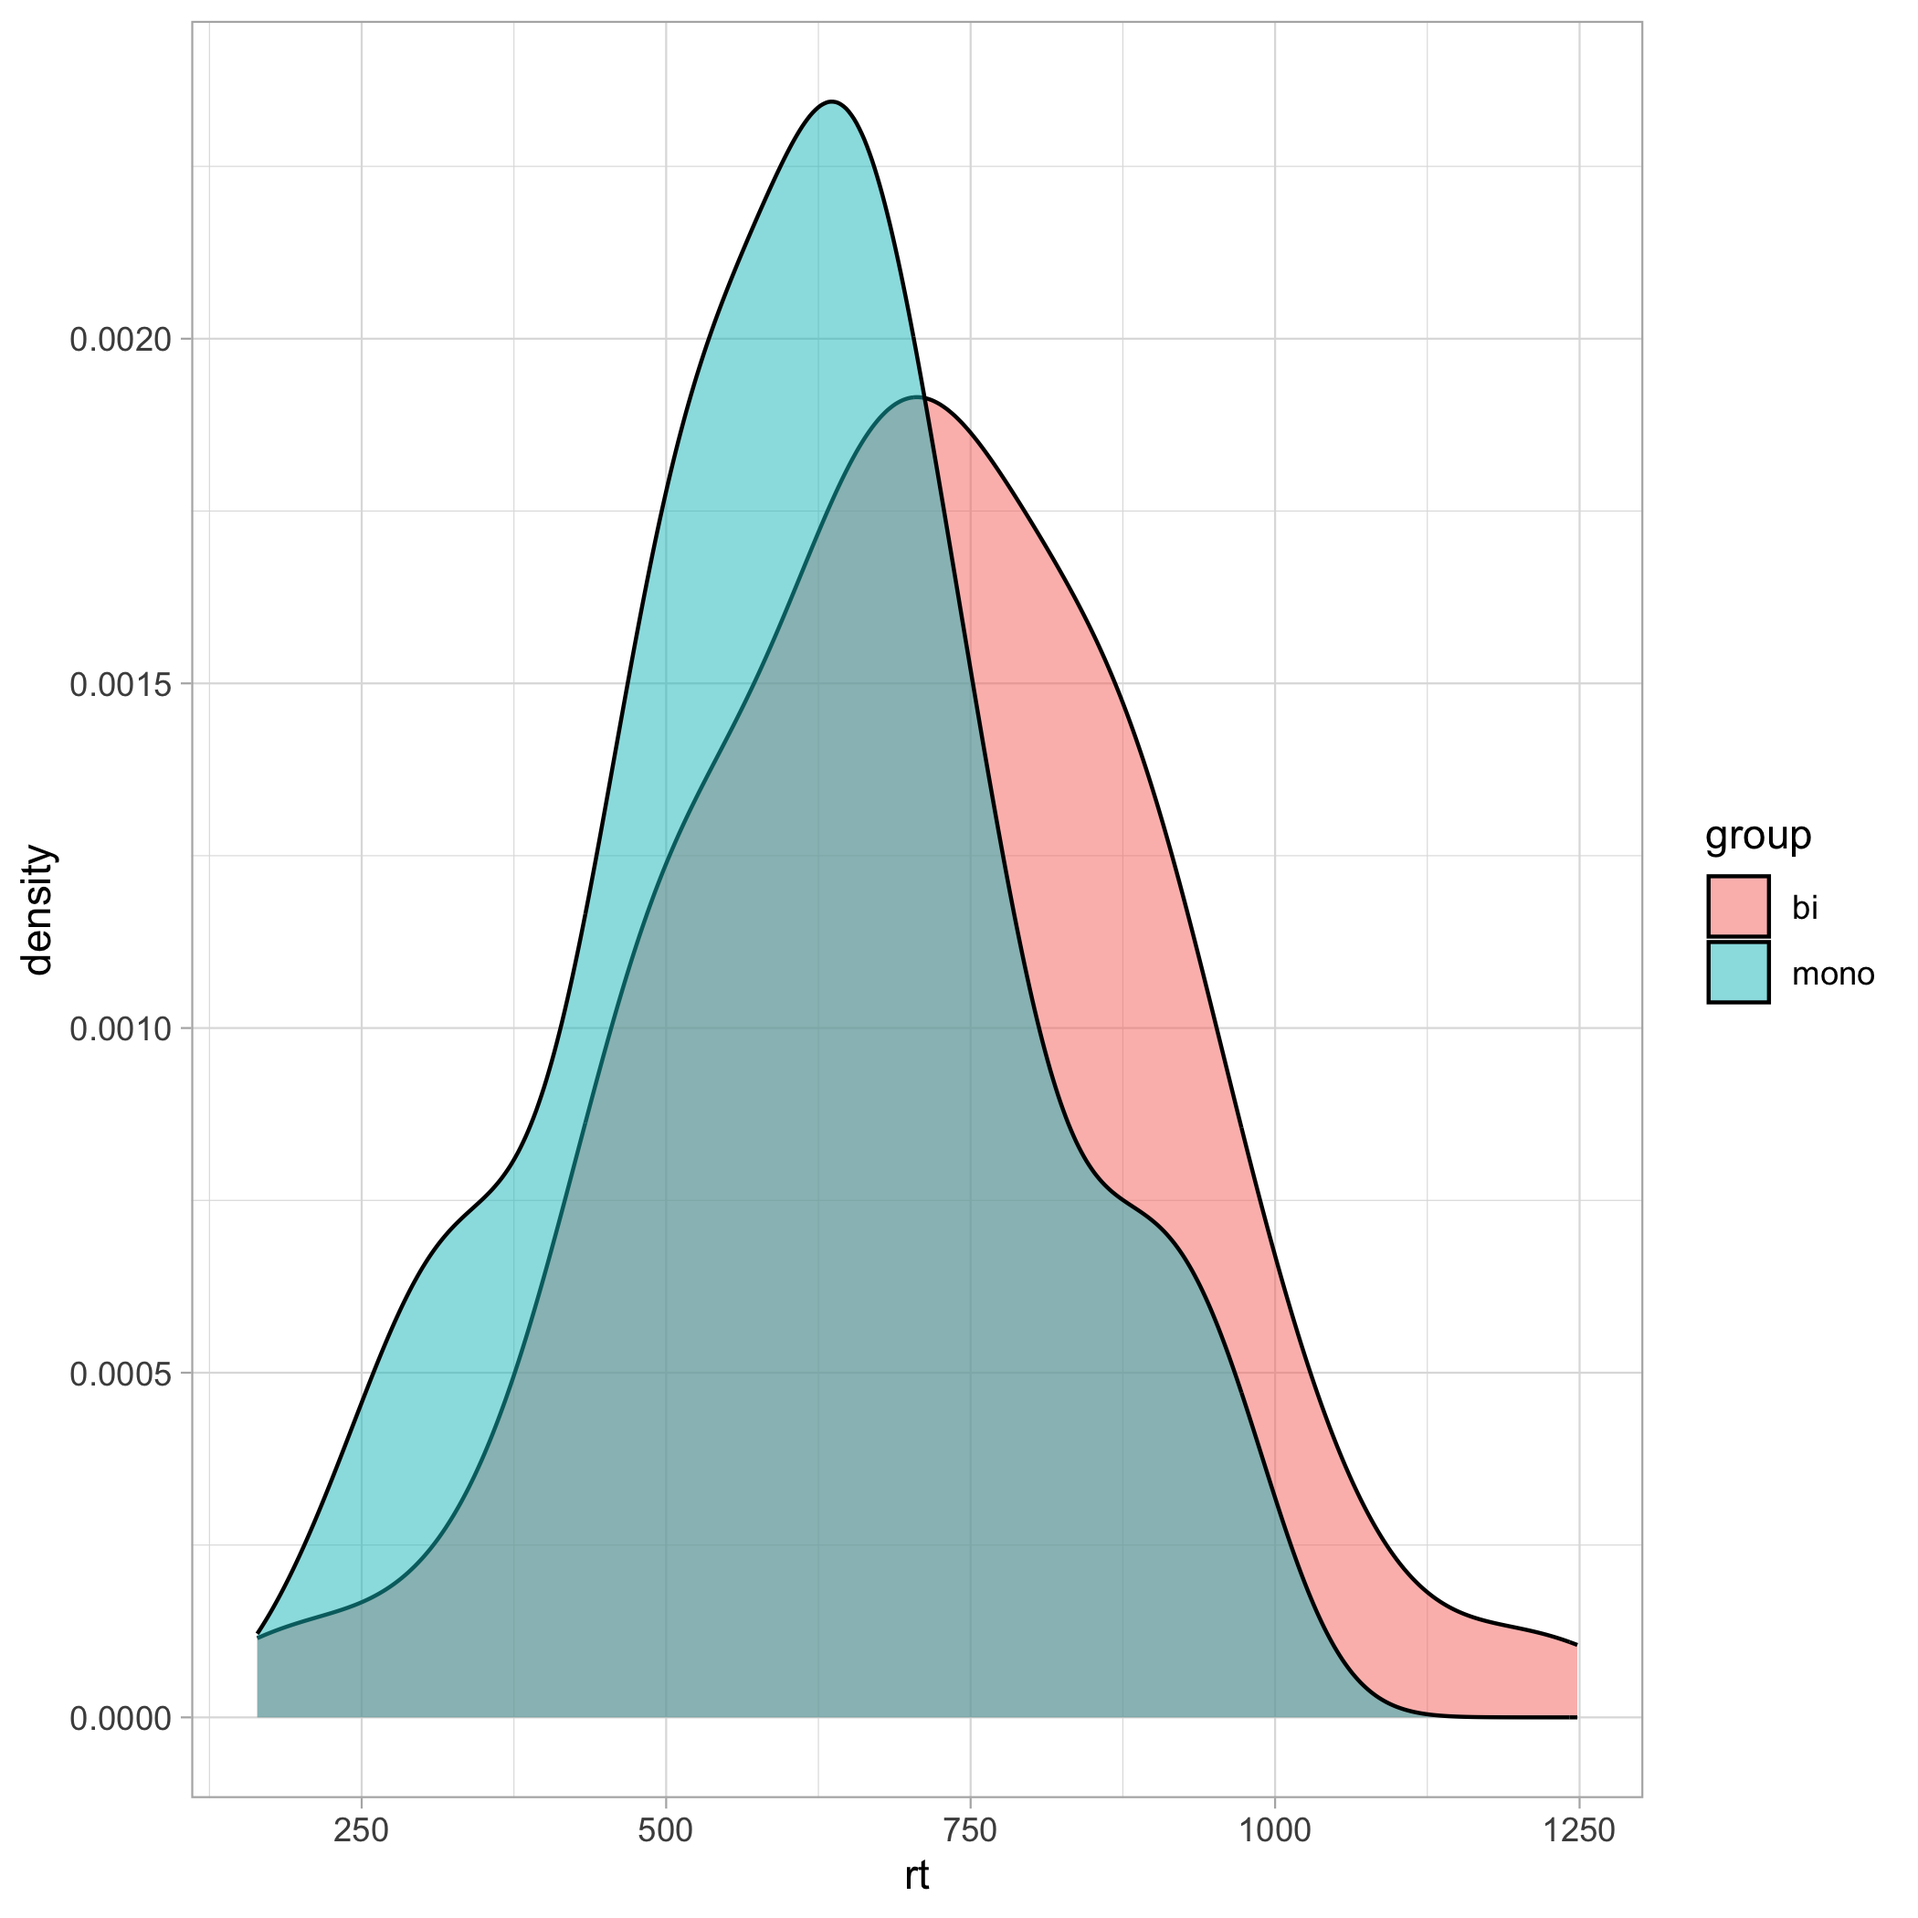
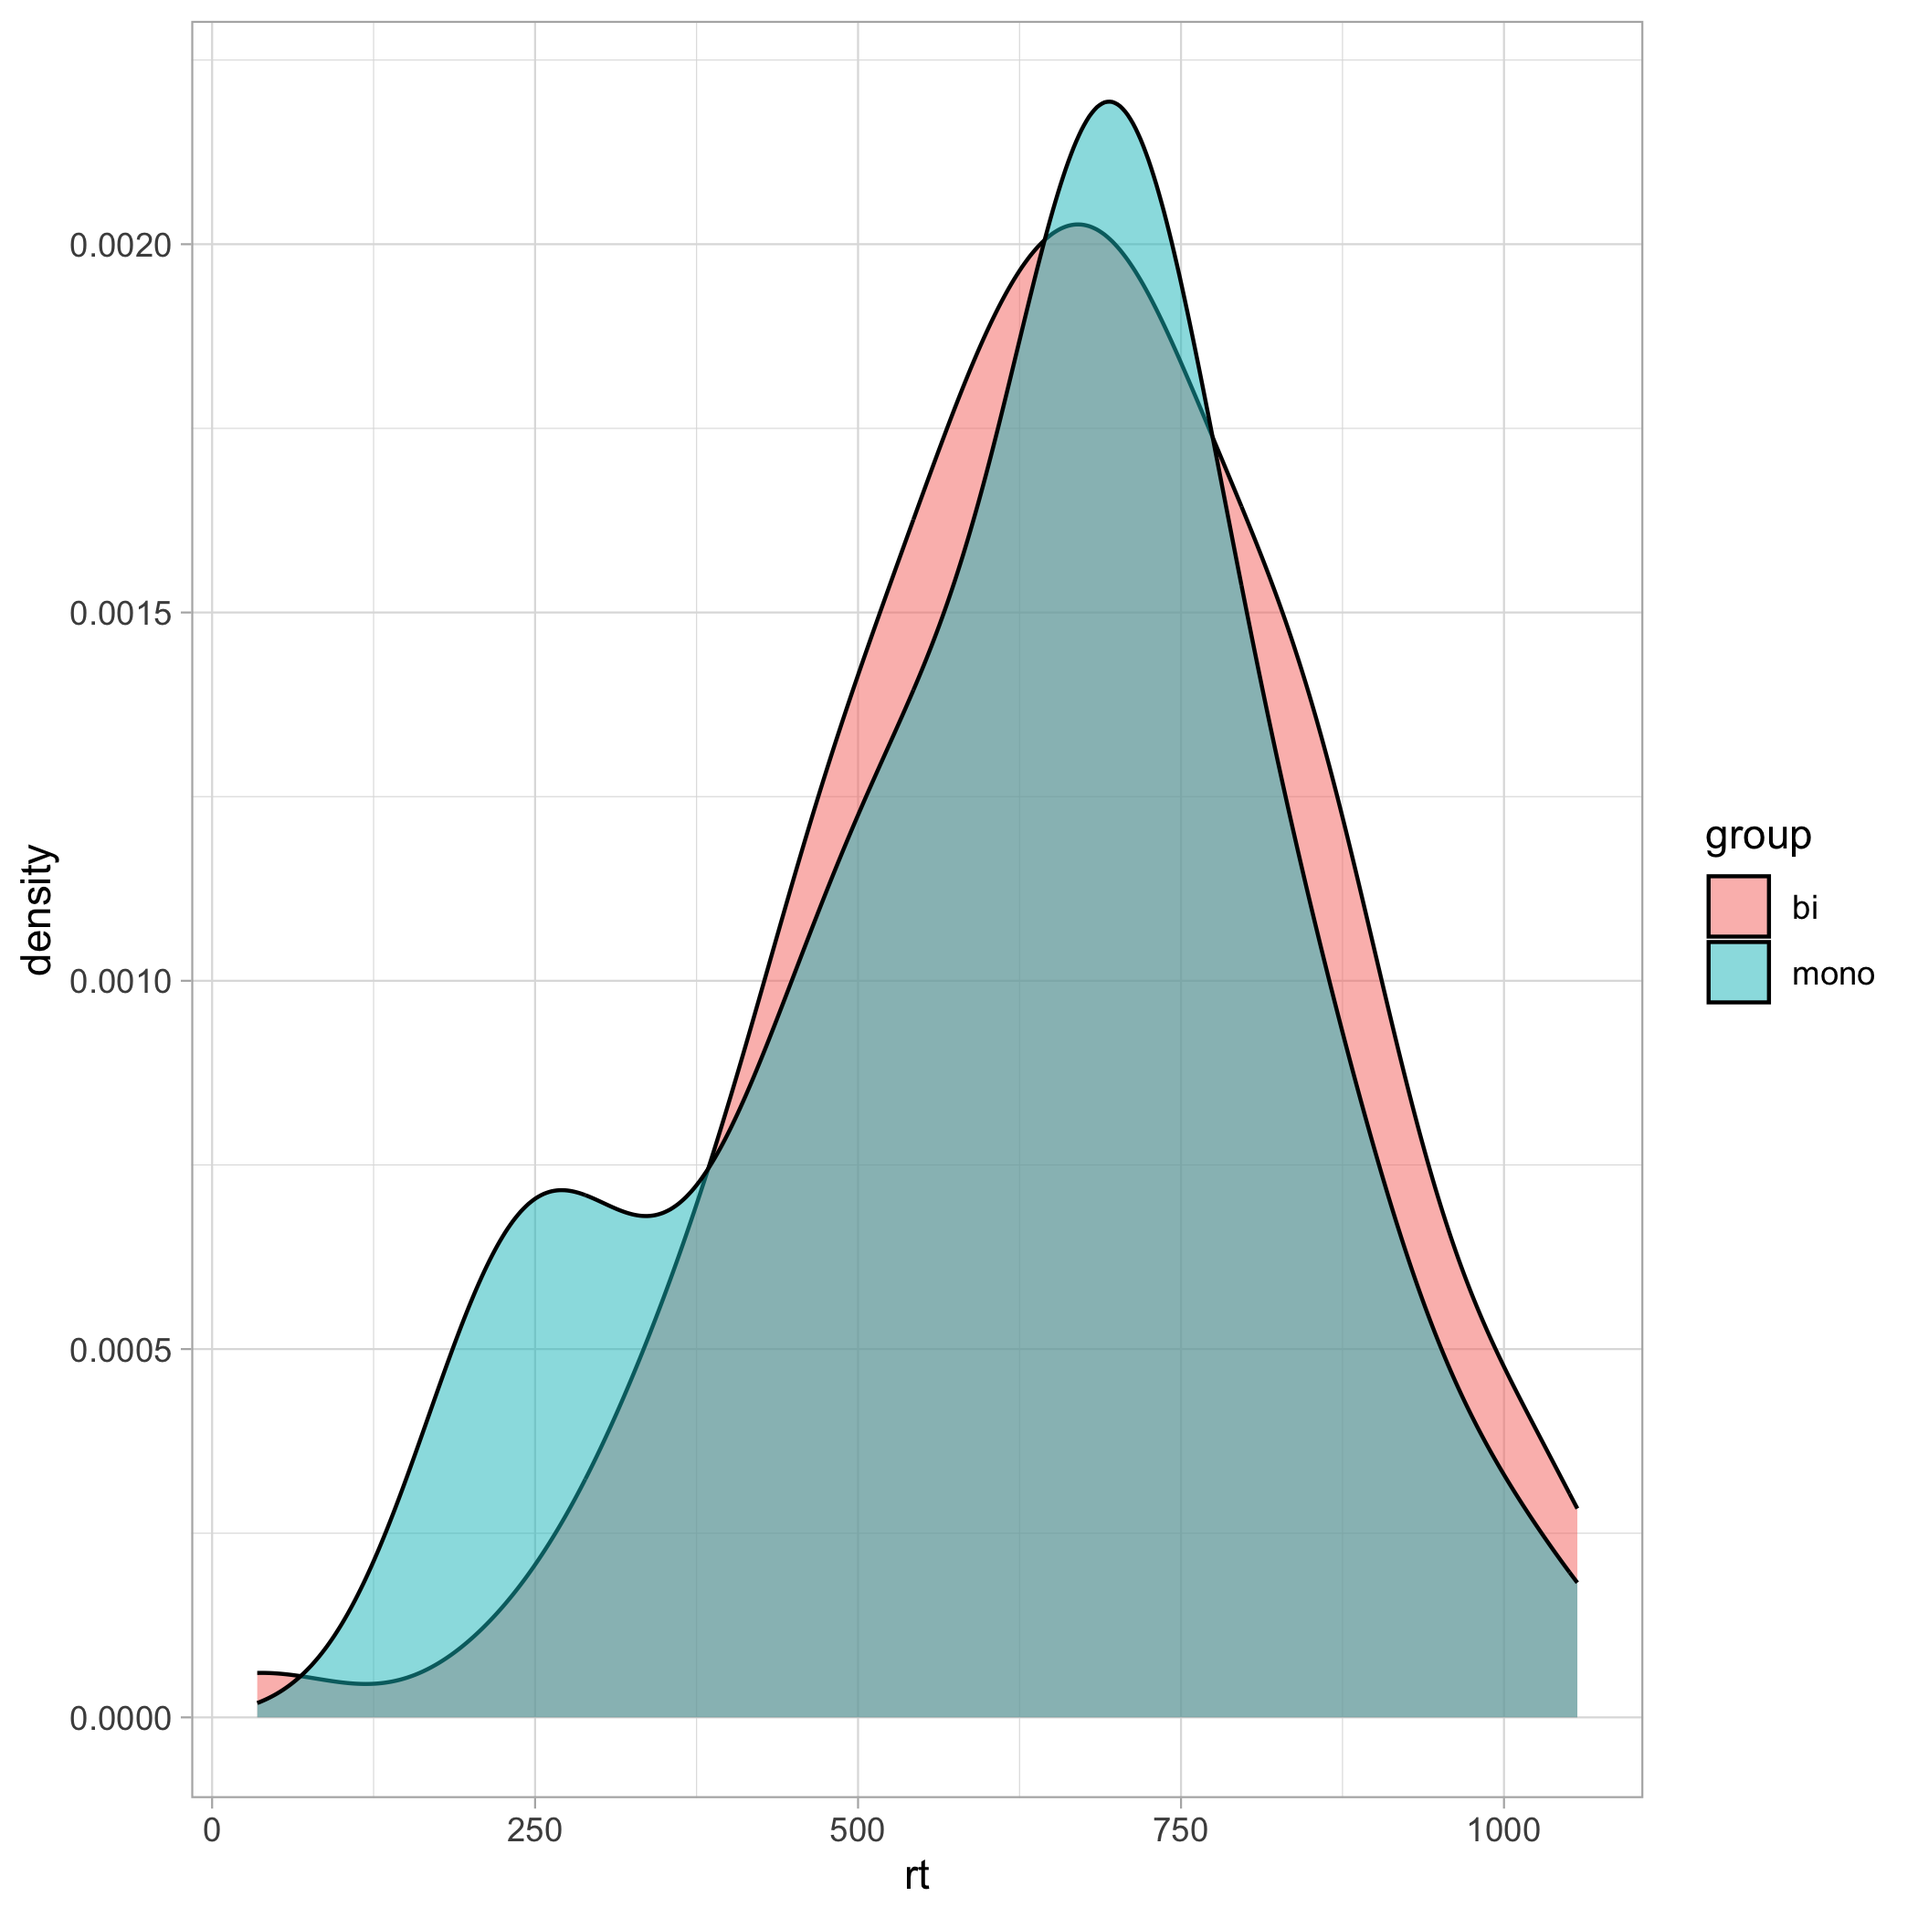
♻ - edit week 9 lecture

diff --git a/week-09/lecture/index.html b/week-09/lecture/index.html
@@ -145,21 +145,21 @@ mono
 ```
 
 ```
-##   [1]  653.1958  428.1120  661.5520  626.2522  561.7407  700.9917  237.2106
-##   [8]  272.2832  776.5510  388.3691  999.9972  585.9777  544.6352  436.6305
-##  [15]  289.0619  312.5002  872.1010  912.4233  721.6950  478.3745  832.8117
-##  [22]  599.4328  542.8807  436.2375  657.8610  727.2985  829.2155  803.1556
-##  [29]  792.3066  444.3765  533.9373  567.2014  791.7699 1044.4952  761.9289
-##  [36]  767.7473  318.7852  665.6078  421.6045  532.2171  655.9947  721.9424
-##  [43]  772.5958  841.0580  517.4577  945.1095  592.8043  591.0317  669.5112
-##  [50]  336.8335  600.0792  518.4344  756.7260  579.5868  412.7875  593.0724
-##  [57]  415.1677  522.3784  215.9743  454.2246  304.4160  709.8490  697.6694
-##  [64]  583.2983  546.7687  364.4700  437.2206  500.6755  778.1231  654.0396
-##  [71]  660.7635  127.5405  951.6064  390.8529  820.9120  763.9739  796.2159
-##  [78]  398.3025  702.7251  511.7848  729.6338  609.0026  202.4812  850.3373
-##  [85]  405.8148  504.3608  627.7290  574.2729  854.2965  521.0785  287.5051
-##  [92]  866.5624  744.6760  747.5896  489.1505  550.0273  956.3585  543.9839
-##  [99]  915.4324  717.6276
+##   [1]  782.7863  594.5380  331.3308  690.1606  587.0662  152.3983  566.6122
+##   [8]  646.7990  421.0200  605.0525  527.2084  581.4962  522.7705  714.0367
+##  [15]  456.2537  644.0142  424.7014  344.5979  646.3823  131.1847  851.8579
+##  [22]  853.2064  814.0872  579.4642  287.5405  652.4241  630.2085  259.8391
+##  [29]  811.7393  824.3785  815.1898  749.4650  754.4665  479.0733  527.2267
+##  [36]  721.0532  634.5602  490.3055  573.9326  779.4114  636.6143  288.7646
+##  [43]  703.9961  452.0114  565.1970  601.8104  555.7956  870.4983  520.8429
+##  [50]  447.5087  636.9357  475.9463  545.8315  757.6294  646.6812  690.7879
+##  [57]  494.7698  397.1102  563.2586  474.9933  847.4624  473.8758  389.7533
+##  [64]  724.9766  762.2886  715.2040  744.0446  481.3429  767.7197  634.6028
+##  [71]  362.6352  648.6124  794.6107 1062.9451  242.4781  689.4526  901.3179
+##  [78]  786.2928  462.7034  637.9000  728.1348  440.5764  724.3921  445.0018
+##  [85]  785.1993  531.0625  528.4703  805.1253  443.9963  555.9331  163.7223
+##  [92]  455.7101  773.5291  672.6318  605.0487  374.5917  774.0295  463.2201
+##  [99]  437.6174  994.0720
 ```
 
 ---
@@ -180,16 +180,16 @@ exp
 ## # A tibble: 200 × 2
 ##       rt group
 ##    &lt;dbl&gt; &lt;chr&gt;
-##  1  405. mono 
-##  2  630. mono 
-##  3  667. mono 
-##  4  292. mono 
-##  5  525. mono 
-##  6  699. mono 
-##  7  507. mono 
-##  8  954. mono 
-##  9  199. mono 
-## 10  671. mono 
+##  1  628. mono 
+##  2  291. mono 
+##  3  666. mono 
+##  4  668. mono 
+##  5  208. mono 
+##  6  167. mono 
+##  7  651. mono 
+##  8  897. mono 
+##  9  994. mono 
+## 10  783. mono 
 ## # … with 190 more rows
 ```
 
@@ -260,7 +260,95 @@ layout: false
 
 --
 
+&lt;br/&gt;
+
 **There is a 0.0352% probability that we would find a difference that is 60 ms or more, assuming that the null hypothesis (`\(H_0: \mu_a-\mu_b = 0\)`) is true.** 
+
+--
+
+&lt;br/&gt;
+
+.f3[If *p* is small enough, we can reject the null hypothesis (that there is no difference).]
+
+--
+
+.f3[But **how small** is small enough?]
+
+---
+
+## The `\(\alpha\)`-level
+
+We need to **set a threshold**, i.e. a value of *p* below which we decide to **reject the null hypothesis**.
+
+--
+
+&lt;br/&gt;
+
+This threshold is known as the **α-level** and for most purposes:
+
+.f1[
+`$$\alpha = 0.05$$`
+]
+
+--
+
+&lt;br/&gt;
+
+In other words:
+
+- If *p* &lt; 0.05: we reject the null hypothesis.
+
+- If *p* ≥ 0.05: we cannot reject the null hypothesis.
+
+---
+
+layout: true
+
+## Null Hypothesis Significance Testing
+
+---
+
+This method of statistical inference is called **Null Hypothesis Significance Testing**, or NHST, or frequentist approach.
+
+--
+
+- The difference between two means is **significant** if the *p*-value is smaller than 0.05 (the α-level).
+
+--
+
+- The difference between two means is **not significant** if the *p*-value is equal to or greater than 0.05 (the α-level).
+
+--
+
+- If the difference between two means is significant, then we can reject the null hypothesis. If it is not significant, we canno reject the null hypothesis.
+
+---
+
+**IMPORTANT**:
+
+- We can **only either reject or not reject the &lt;u&gt;null hypothesis&lt;/u&gt;**!
+
+--
+
+- **NHST does not allow us** to make statements about the alternative hypothesis.
+
+  - A significant result (i.e. difference or effect) does not mean that the alternative hypothesis is correct.
+  
+  - It only indicates that the result is compatible with the alternative hypothesis, but does not provide evidence for it.
+
+--
+
+- **NHST also does not allow us to accept** the null hypothesis, only reject it.
+
+--
+
+- ***p*-values are sensitive to sample size**: they decrease with increasing sample size.
+
+  - In other words, a non-significant *p*-value will become significant with greater a sample size.
+
+--
+
+- NHST is somewhat **perverse**, or at least very **counterintuitive**.
     </textarea>
 <style data-target="print-only">@media screen {.remark-slide-container{display:block;}.remark-slide-scaler{box-shadow:none;}}</style>
 <script src="https://remarkjs.com/downloads/remark-latest.min.js"></script>
